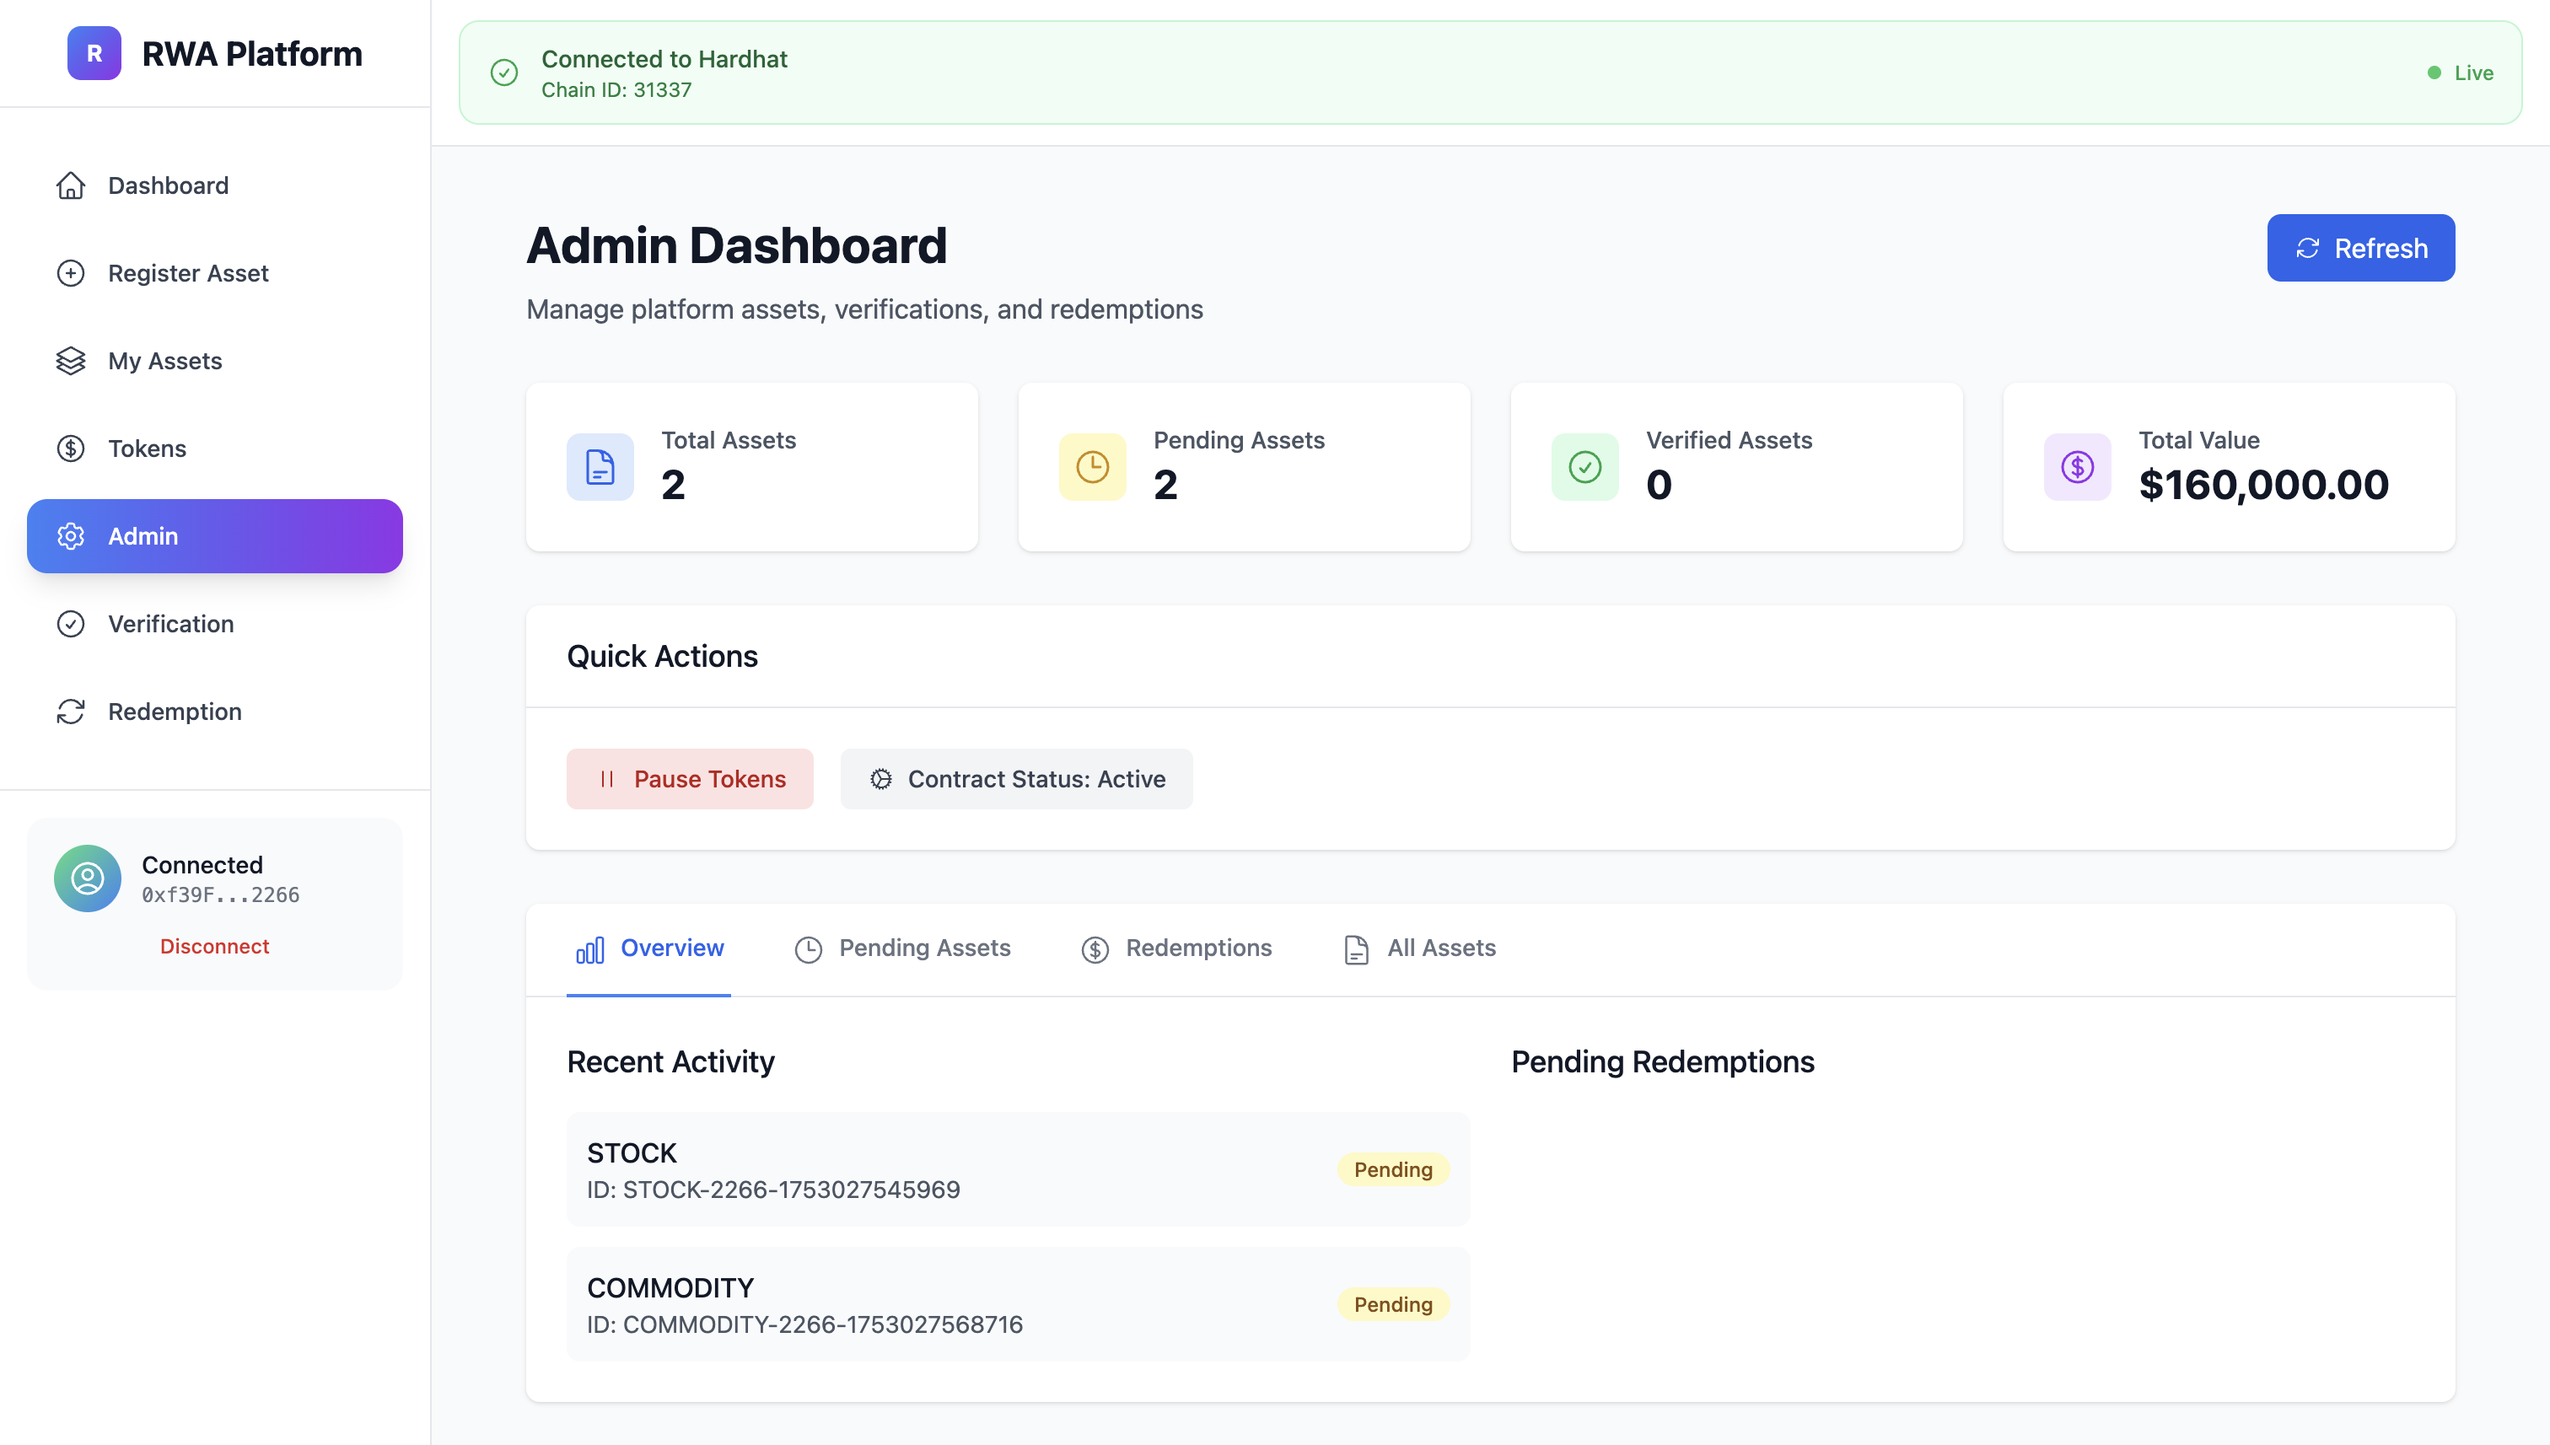
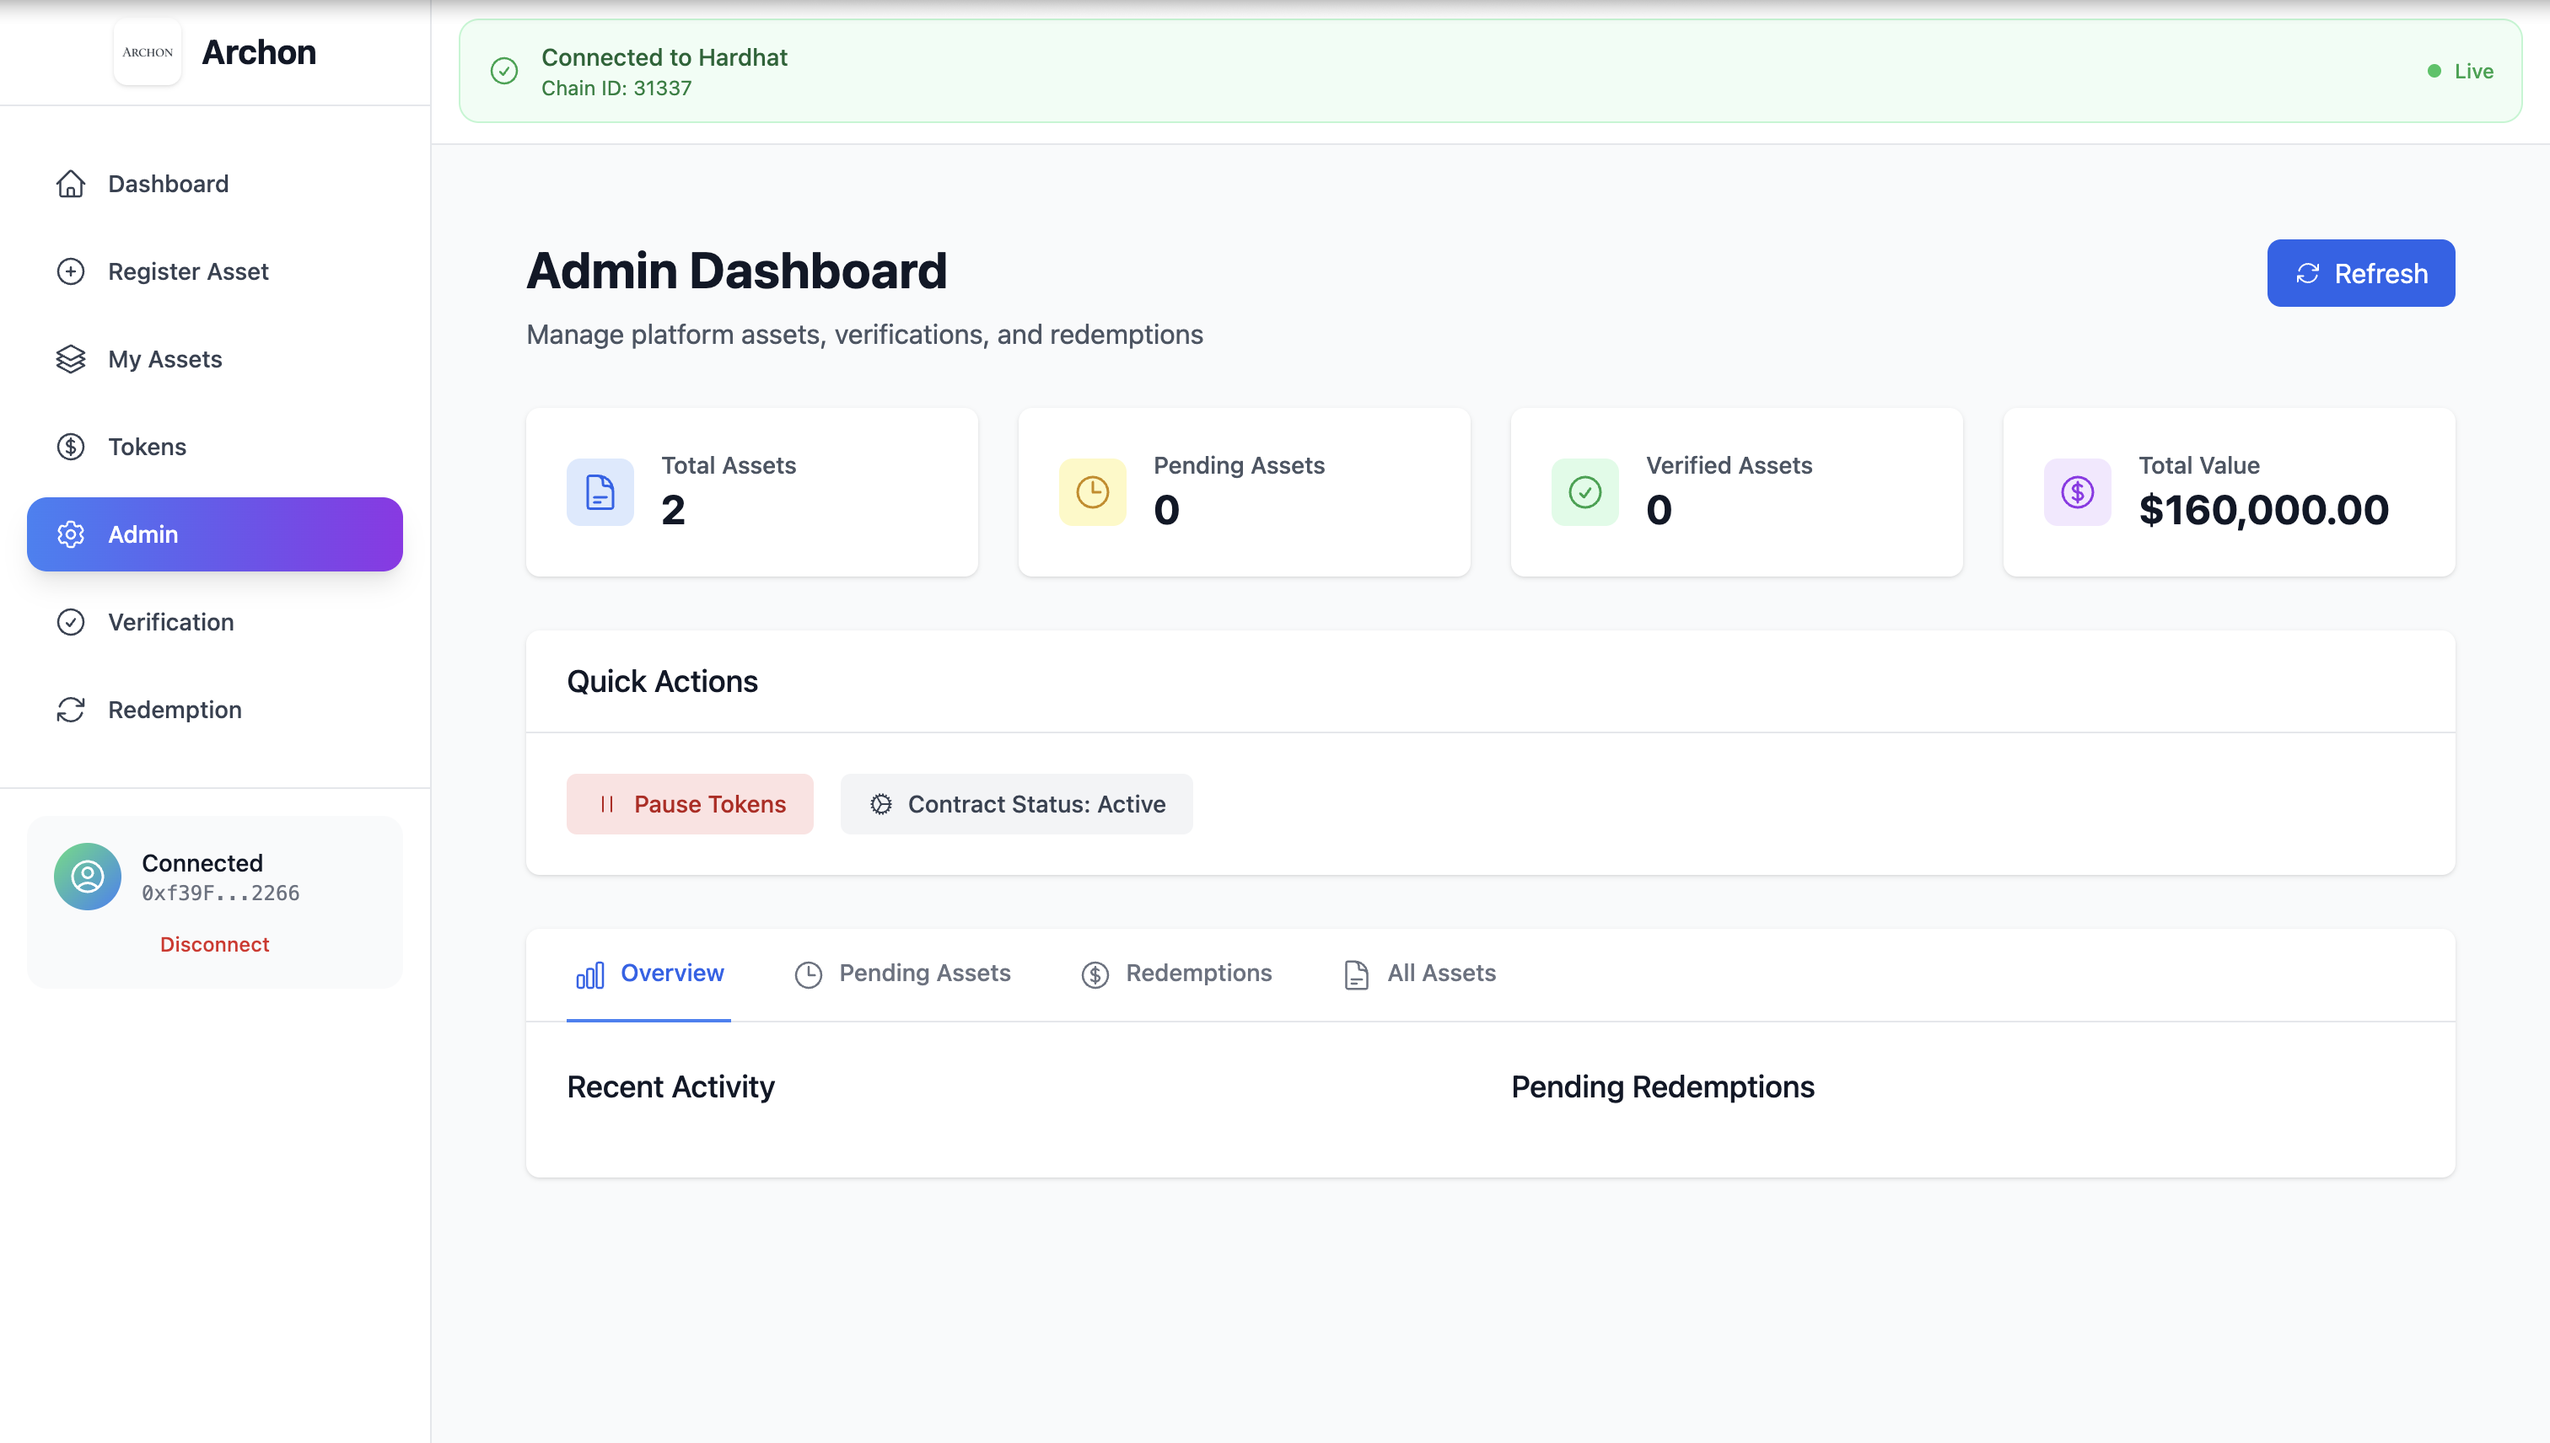
Update branding to Archon and refresh screenshots
Replaced 'RWA Platform' branding with 'Archon' in Navigation and Dashboard components. Updated logo in the navigation bar and refreshed several screenshot assets, including adding a new 'Screenshot_my_assets.png' image.

diff --git a/frontend/src/components/Navigation.tsx b/frontend/src/components/Navigation.tsx
@@ -13,6 +13,7 @@ import {
   XMarkIcon,
   UserCircleIcon
 } from '@heroicons/react/24/outline';
+import logo from '../assets/logo.png';
 
 const userNavItems = [
   { name: 'Dashboard', path: '/', icon: HomeIcon },
@@ -97,10 +98,8 @@ const Navigation: React.FC = () => {
         {/* Logo */}
         <div className="flex items-center justify-center h-16 px-6 border-b border-gray-200">
           <div className="flex items-center space-x-3">
-            <div className="w-8 h-8 bg-gradient-to-br from-blue-500 to-purple-600 rounded-lg flex items-center justify-center">
-              <span className="text-white font-bold text-sm">R</span>
-            </div>
-            <span className="text-xl font-bold text-gray-900">RWA Platform</span>
+            <img src={logo} alt="Archon Logo" className="w-10 h-10 rounded-lg shadow" />
+            <span className="text-xl font-bold text-gray-900">Archon</span>
           </div>
         </div>
 

diff --git a/frontend/src/pages/Dashboard.tsx b/frontend/src/pages/Dashboard.tsx
@@ -63,7 +63,7 @@ const Dashboard: React.FC = () => {
       <div className="bg-gradient-to-r from-blue-600 to-purple-600 rounded-2xl p-8 text-white">
         <div className="flex flex-col lg:flex-row lg:items-center lg:justify-between">
           <div className="mb-6 lg:mb-0">
-            <h1 className="text-3xl lg:text-4xl font-bold mb-3">Welcome to RWA Platform</h1>
+            <h1 className="text-3xl lg:text-4xl font-bold mb-3">Welcome to Archon</h1>
             <p className="text-blue-100 text-lg mb-4">
               Tokenize and manage your real-world assets on the blockchain
             </p>
